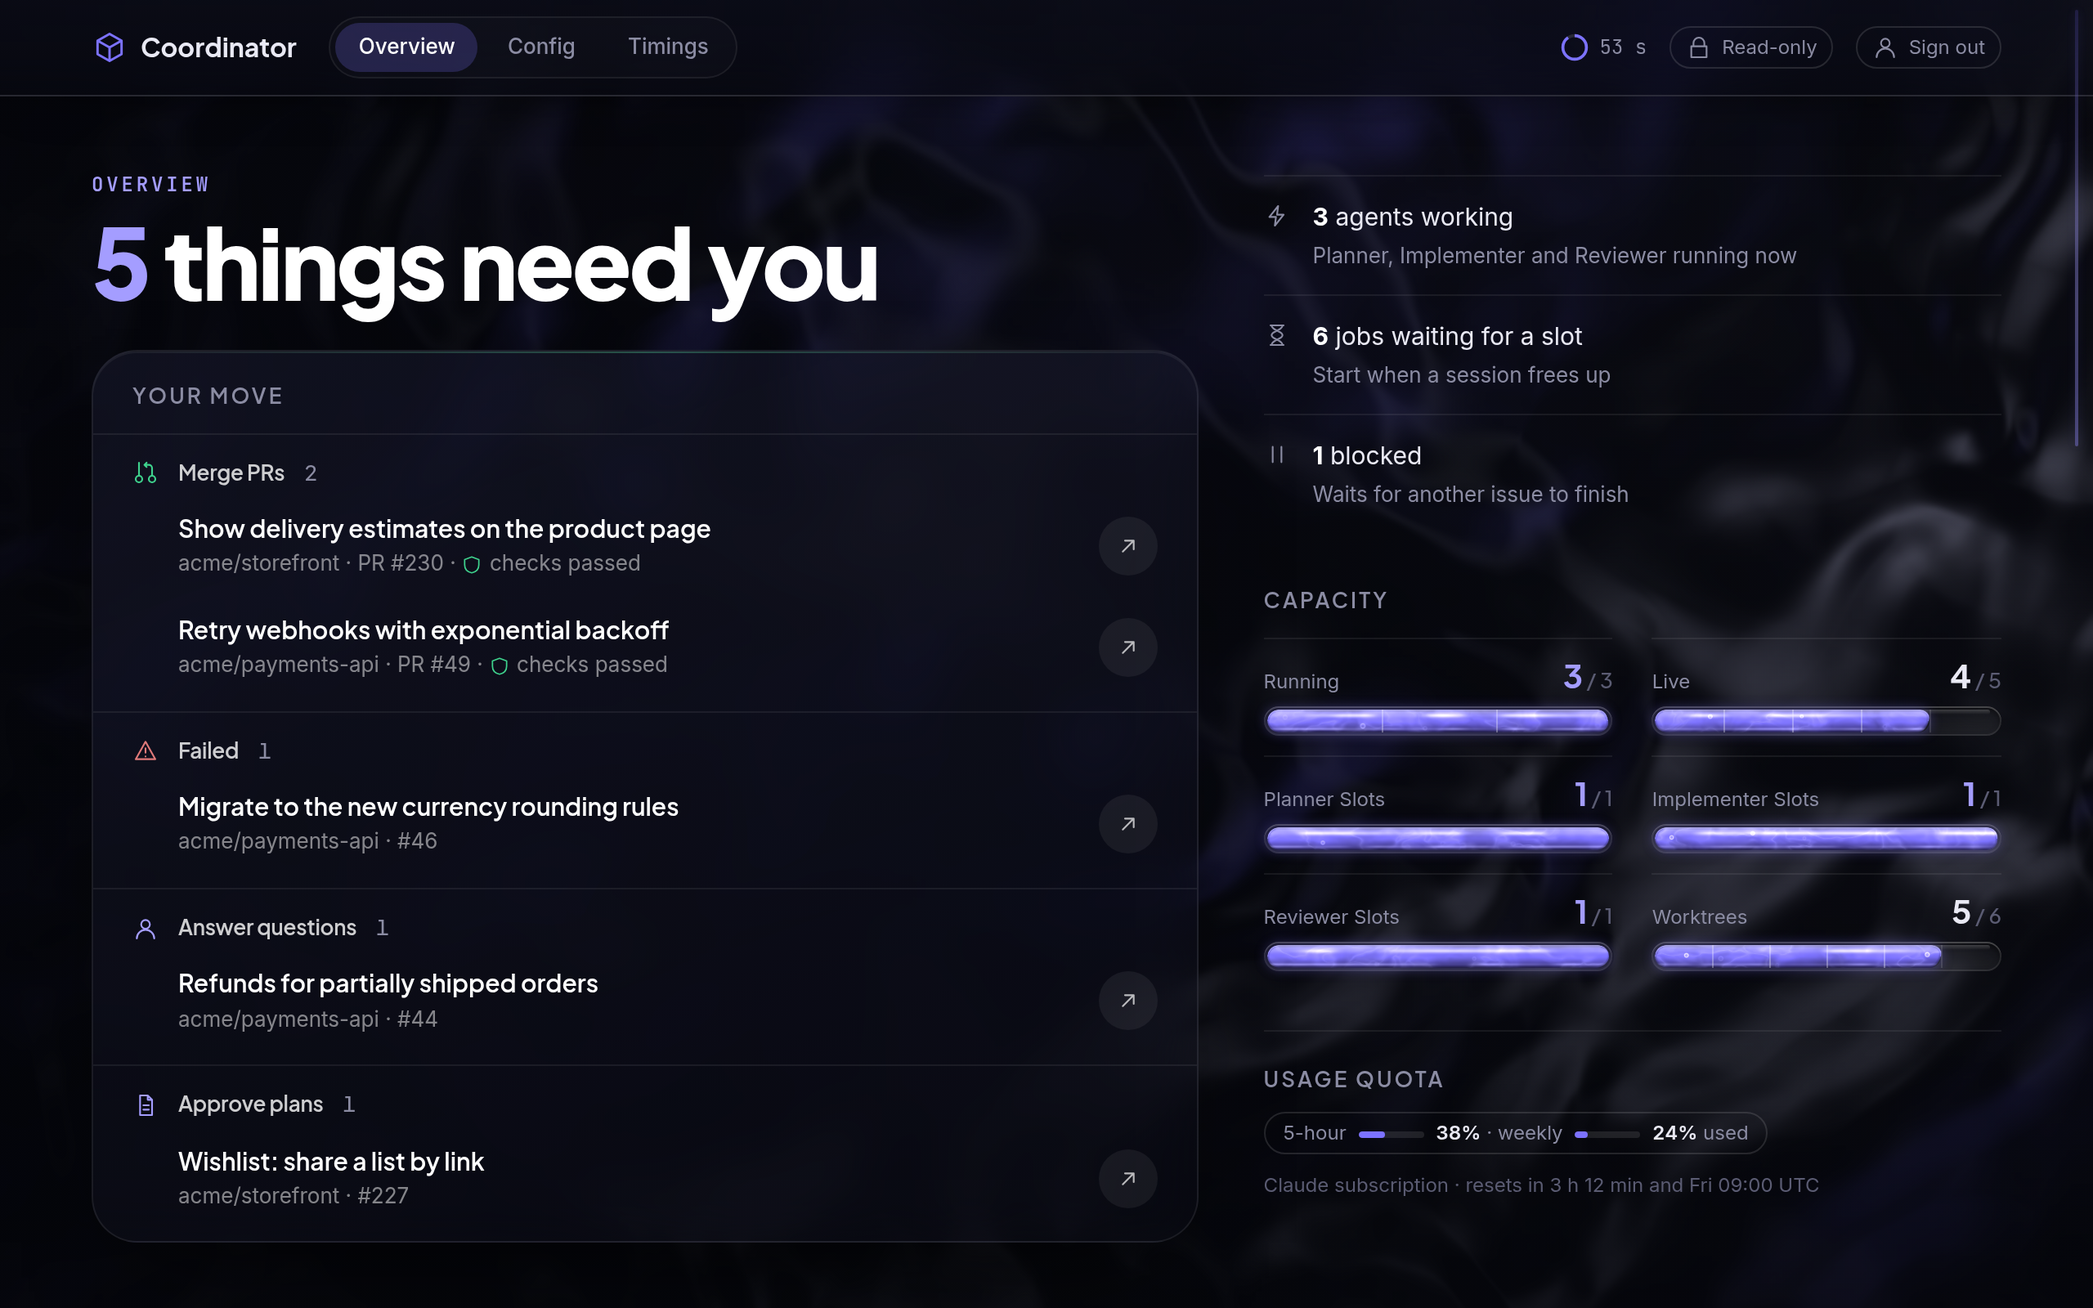
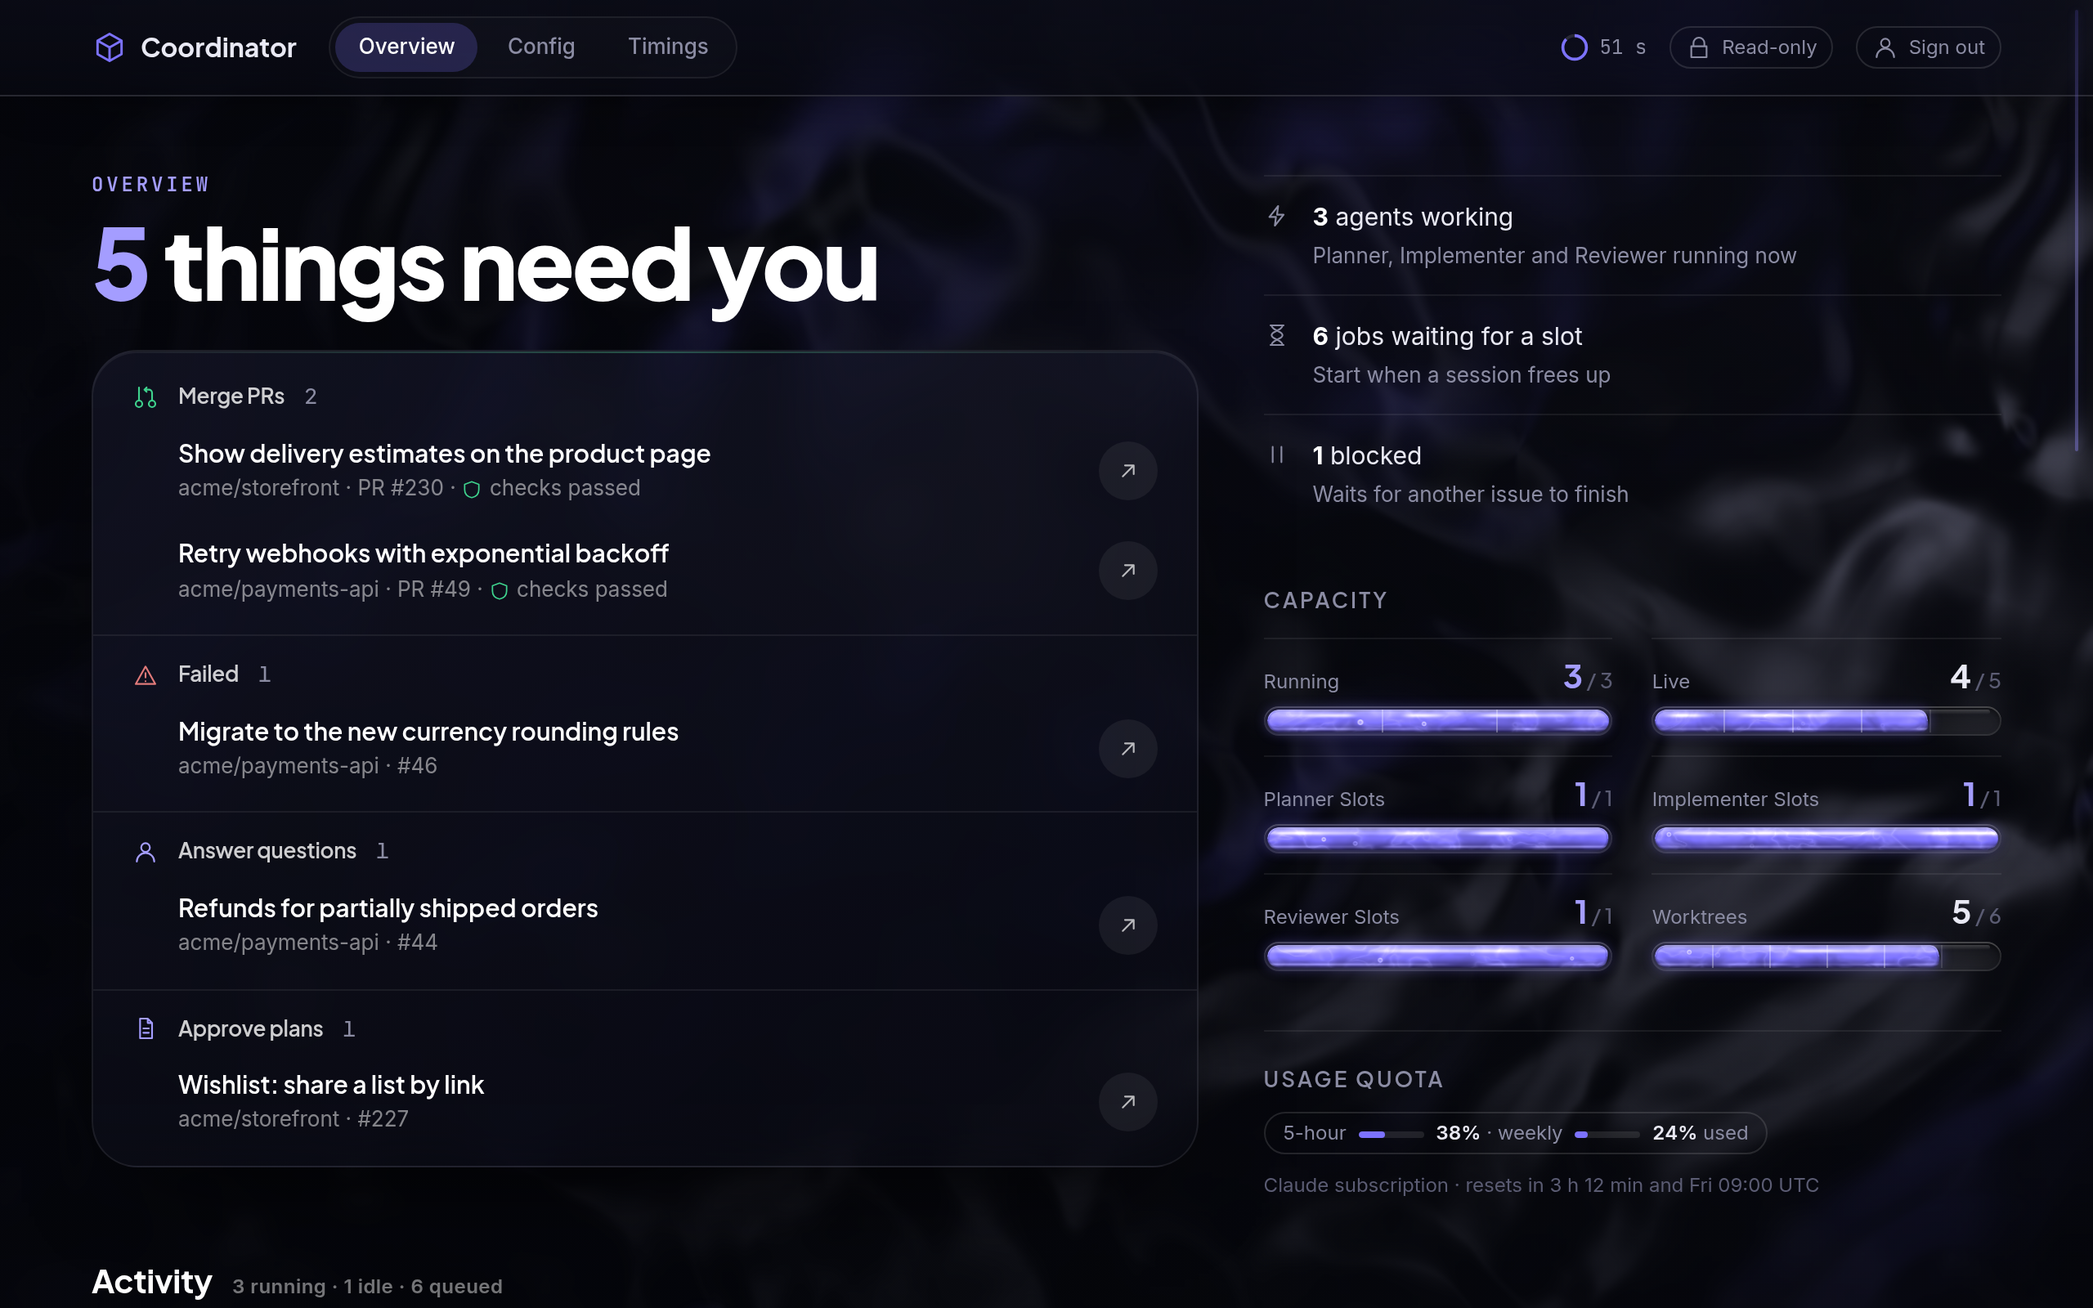
feat: Your move starts with its first group, no visible title (#154, REQ-003-32)
The headline above already introduces the panel. The "Your move" name stays
as a screen-reader-only h2; the first group drops its top hairline and keeps
the panel's 18px top padding. The empty-state text is now first in the panel.

Claude-Session: https://claude.ai/code/session_0137xE8D2TnkiuPdvJBsNGWq

diff --git a/test/dashboard-html.test.ts b/test/dashboard-html.test.ts
@@ -253,7 +253,10 @@ describe("dashboard html", () => {
 
   test("REQ-003-32 Your move lists the groups with an icon, a name and a count, each row linked with title, repository and number", () => {
     const summary = summaryOf(overview());
-    expect(summary).toMatch(/<div class="panel[^"]*"><h2 [^>]*>(?:(?!<\/h2>)[\s\S])*Your move<\/h2>/);
+    // #154: no visible title, the headline introduces the panel; screen readers still name it.
+    expect(summary).toMatch(
+      /<div class="panel[^"]*"><h2 class="sr-only">Your move<\/h2><ul><li [^>]*data-move="merge"/,
+    );
     const groups = [...summary.matchAll(/<li [^>]*data-move="(\w+)"/g)].map((m) => m[1]);
     expect(groups).toEqual(["merge", "approve"]);
     expect(summary).toMatch(/data-move="merge"[\s\S]*?<h3[^>]*>[\s\S]*?Merge PRs[\s\S]*?>1<[\s\S]*?<\/h3>/);
@@ -368,14 +371,15 @@ describe("dashboard html", () => {
     expect(summary).not.toMatch(/\b(?:text|bg|border|from)-warn\b/);
     // Bare icons: no circle or box around them; the groups are split by a plain hairline.
     expect(head("merge")).not.toMatch(/rounded|bg-/);
+    // A hairline splits the groups; the first one starts the panel, with no line against its top edge (#154).
     const groupClasses = [...summary.matchAll(/<li class="([^"]*)" data-move=/g)].map((m) => m[1]);
-    for (const c of groupClasses) expect(c).toBe("border-line border-t");
+    expect(groupClasses).toEqual(["pt-1", ...Array(4).fill("border-line border-t")]);
   });
 
   test("REQ-003-32 with nothing to do Your move says so and when items will appear", () => {
     const summary = summaryOf(renderDashboard(dashboardView({ ...snap, repos: [] }, config, NOW)));
-    expect(summary).toContain("Your move");
-    expect(summary).toContain("Nothing needs you.");
+    // #154: the empty text is the first thing seen in the panel, under the hidden name.
+    expect(summary).toMatch(/<div class="panel[^"]*"><h2 class="sr-only">Your move<\/h2><p [^>]*>Nothing needs you\. /);
     expect(summary).toMatch(/Nothing needs you\. [^<]*Review passes[^<]*Planner/);
     expect(summary).not.toContain("data-move=");
   });
@@ -468,7 +472,7 @@ describe("dashboard html", () => {
     const summary = html.slice(html.indexOf('id="summary"'), html.indexOf('id="activity"'));
     // Two columns from md on, the left one wider; in page order (a phone stacks them): headline, Your move, counts, Capacity.
     expect(summary).toMatch(/^id="summary" class="[^"]*md:grid-cols-\[minmax\(0,3fr\)_minmax\(0,2fr\)\]/);
-    const at = order(summary, ["<h1", "Your move", 'id="stats"', 'id="capacity"']);
+    const at = order(summary, ["<h1", 'class="panel', 'id="stats"', 'id="capacity"']);
     expect([...at].sort((a, b) => a - b)).toEqual(at);
     expect(at.every((i) => i >= 0)).toBe(true);
     expect(inside(html, "section#summary > div:first-child", ["h1", ".panel", "#stats"])).toEqual(

diff --git a/src/dashboard/html.tsx b/src/dashboard/html.tsx
@@ -152,15 +152,28 @@ function moveParts(groups: MoveGroup[], from: number, to: number): MovePart[] {
 
 /**
  * REQ-003-32: groups with a bare icon, name and total count, split by a plain hairline. A group
- * continued after "Show N more" has neither heading nor hairline (REQ-003-35).
+ * continued after "Show N more" has neither heading nor hairline (REQ-003-35). The `top` list starts
+ * the panel: its first group has no hairline, just the panel's top padding (#154).
  */
-const MoveGroups = ({ parts, fadeLast = false }: { parts: MovePart[]; fadeLast?: boolean }) => (
+const MoveGroups = ({
+  parts,
+  fadeLast = false,
+  top = false,
+}: {
+  parts: MovePart[];
+  fadeLast?: boolean;
+  top?: boolean;
+}) => (
   <ul>
     {parts.map(({ group: g, items, continued }, p) => {
       const { icon, tone } = MOVE_ICONS[g.kind];
       const last = p === parts.length - 1;
       return (
-        <li key={g.kind} className={continued ? undefined : "border-line border-t"} data-move={g.kind}>
+        <li
+          key={g.kind}
+          className={top && p === 0 ? "pt-1" : continued ? undefined : "border-line border-t"}
+          data-move={g.kind}
+        >
           {!continued && (
             <h3 className="flex items-center gap-3 px-[18px] pt-3.5 pb-1 font-semibold text-[13px] text-white/80 sm:px-6">
               <Icon name={icon} className={`size-4 ${TONE_TEXT[tone]}`} />
@@ -187,21 +200,22 @@ function YourMove({ v }: { v: DashboardView }) {
   const total = v.summary.needYou;
   return (
     <div className="panel">
-      <Label className="px-6 pt-[18px] pb-3">Your move</Label>
+      {/* #154: the headline above introduces the panel; the name stays for screen readers. */}
+      <h2 className="sr-only">Your move</h2>
       {total === 0 ? (
         <Empty className="px-6 pt-3 pb-5">
           Nothing needs you. A PR shows up here when its Review passes and the checks are green, an issue when the
           Planner has a plan or questions for you, or when it failed.
         </Empty>
       ) : total <= MOVES_UNCAPPED ? (
-        <MoveGroups parts={moveParts(v.yourMove, 0, total)} />
+        <MoveGroups parts={moveParts(v.yourMove, 0, total)} top />
       ) : (
         <Expander
           id="moves"
           className="moves"
           more={total - MOVES_SHOWN}
           linkClassName="px-[18px] sm:px-6"
-          first={<MoveGroups parts={moveParts(v.yourMove, 0, MOVES_SHOWN)} fadeLast />}
+          first={<MoveGroups parts={moveParts(v.yourMove, 0, MOVES_SHOWN)} fadeLast top />}
           rest={<MoveGroups parts={moveParts(v.yourMove, MOVES_SHOWN, total)} />}
         />
       )}

diff --git a/docs/specs/003-dashboard/spec.md b/docs/specs/003-dashboard/spec.md
@@ -305,6 +305,7 @@ The Owner wants to see at a glance, also on a phone, what the Coordinator is doi
 - **Given** ready PRs (open agent PRs whose issues are all `agent:reviewed`, whose checks passed or that have none, and that GitHub reports as mergeable) and issues in `failed`, `needs-refinement`, `proposed` or `wontfix-proposed`
 - **When** the Overview is shown
 - **Then** a "Your move" panel next to the headline (REQ-003-11) lists them in groups, in this order: Merge PRs, Failed, Answer questions, Approve plans, Close?; a group with nothing in it is left out
+- **And** the panel shows no visible title: the first group's heading (or the empty-state text) is the first thing in it, since the headline above already introduces it, and the first group has no hairline above it; a screen reader still announces the panel as "Your move" (#154)
 - **And** each group has a bare icon (no circle or box around it), its name and its count, and the groups are split by a plain hairline
 - **And** each row shows the title, the repository and the number (`PR #N` for a PR), and links to the PR or issue on GitHub; it gives no hint on what to do, since the group name says it (#139)
 - **And** from the `sm` width on, the title and the line under it take one line each, cut with an ellipsis, with the full title on hover; on a phone rows are not indented and the title may take 2 lines
@@ -433,7 +434,7 @@ The Owner wants to see at a glance, also on a phone, what the Coordinator is doi
 | REQ-003-30 | `dashboard GitHub sign-in > REQ-003-29 / REQ-003-30 the Owner signs in …` and `REQ-003-30 …` (7 tests: another user 403, wrong or missing state 400, refused code 400 and GitHub out of reach 502, tampered/expired/foreign session, the key generated once (0600), a restart keeps the session unless `owner.id` changed, Secure behind HTTPS)                                                                                                                                                                                                                                                                                                                                                                                                                                                                                                                                                                                                                                                                                                                                                                                                                                           | pass; with a real OAuth App: open                                                                                  |
 | REQ-003-31 | `dashboard GitHub sign-in > REQ-003-31 …` (2 tests: Sign out ends the session and refuses a cross-site POST, the token next to the sign-in as Bearer, `?token=` and its cookie, also before the sign-in is set up); `dashboard html > REQ-003-31 …` (the Sign out form in the header); `config > REQ-003-31 …` (off loopback a token or the sign-in)                                                                                                                                                                                                                                                                                                                                                                                                                                                                                                                                                                                                                                                                                                                                                                                                                                      | pass                                                                                                               |
 | REQ-003-36 | `Settings overrides > REQ-003-36 …` (8 tests: no file, merge of every editable key, a repository's `null`, `autoMerge` globally and per repository with a repository's `null` falling back to the global mode, unknown repositories ignored, invalid file and non-editable keys refused (incl. `setup`, a model that is an option), save validates, writes and survives a restart, empty overrides); `dashboard settings > REQ-003-36 …` (5 tests: the form with its token and only the editable fields and no refresh, saving writes only differences and marks them with config.ts's value and Reset, `autoMerge` as a select globally and per repository that saves, goes back to the global mode and refuses an unknown mode, an invalid value keeps the entered values and saves nothing, Reset removes one override); `reconcile loop with Settings overrides > REQ-003-36 …` (a lowered `maxRunning` and another model apply at the next tick); `worktrees > REQ-003-36 maxWorktrees is read on every check …`; manual: `bun run doctor` with a valid and an invalid overrides file, and save / invalid save in headless Chrome against the real server (screenshots on #123's PR) |
-| REQ-003-32 | `dashboard view > REQ-003-32 …` (4 tests: the ready-PR filter, a Bundle only when all its issues are reviewed, groups in order with rows, labels and hints, empty groups left out); `dashboard html > REQ-003-32 …` (6 tests: groups with icon, name and count and linked rows; one line each from sm on with the full title as `title`, no hint, only the repository cut (#139); a ready PR's checks fact at every width with a green shield; every row has the green accent line, wash, nudge and arrow hover; tones and hairlines; the empty state); `dashboard server > REQ-003-13 ?repo= narrows the Pipeline` (Your move stays unfiltered); in Chrome: desktop and phone screenshots with the first row hovered (forced `:hover`), no horizontal scroll at 360px (#111)                                                                                                                                                                                                                                                                                                                                                                                                             | pass; the hover in a real browser: open                                                                            |
+| REQ-003-32 | `dashboard view > REQ-003-32 …` (4 tests: the ready-PR filter, a Bundle only when all its issues are reviewed, groups in order with rows, labels and hints, empty groups left out); `dashboard html > REQ-003-32 …` (6 tests: groups with icon, name and count and linked rows, no visible title but a screen-reader name, the first group first in the panel (#154); one line each from sm on with the full title as `title`, no hint, only the repository cut (#139); a ready PR's checks fact at every width with a green shield; every row has the green accent line, wash, nudge and arrow hover; tones and hairlines, none above the first group; the empty state first in the panel); `dashboard server > REQ-003-13 ?repo= narrows the Pipeline` (Your move stays unfiltered); in Chrome: desktop and phone screenshots with the first row hovered (forced `:hover`), no horizontal scroll at 360px (#111); without the title, with items and with none: screenshots on the PR (#154)                                                                                                                                                                                             | pass; the hover in a real browser: open                                                                            |
 | REQ-003-33 | `store > Timings > REQ-003-33 …` (5 tests: a step's wait and only running time as agent time, a session's time goes to the step that began last across phases, survives a restart and a crash's interval closed at the next Tick, a retried start is the same round and the next starts at the last end, the Owner's time fills the gap since the last step, checks run alongside from their head's push once per head, never without Timings); `reconcile loop > REQ-003-33 one issue through plan, revision, approval, Implementer, checks, Review, Feedback round, re-review and merge`, `… a session whose window is gone …`; `hook > REQ-003-33 …`; `deriveActions > REQ-001-14 / REQ-003-33 …` (merged or closed)                                                                                                                                                                                                                                                                                                                                                                                                                                                                   | pass                                                                                                               |
 | REQ-003-34 | `dashboard timings > REQ-003-34 …` (9 tests: rows, labels, shares on one scale, totals without the Owner's time; with it end to end; one segment per step, running grows, under a second left out; checks alongside the Review count once; picker newest first, empty states; tab, GET form, `width` attributes and no `style`, empty page); `store > Timings > REQ-003-34 lists the issues …`; `dashboard server > REQ-003-34 …` (2 tests: from the store behind the token, no source); `dashboard refresh > REQ-003-34 …` (submits on change); no horizontal scroll at 360 and 390 px measured in Chrome, screenshots on the PR                                                                                                                                                                                                                                                                                                                                                                                                                                                                                                                                                         | pass                                                                                                               |
 | REQ-003-35 | `dashboard html > REQ-003-35 …` (4 tests: 11 items show 5 and one "Show 6 more", counts stay totals, the 5th fades; a split group keeps one heading and a later group brings its own; 6 or fewer show all with no expander; the fade rule in the stylesheet; each seen failing first); `dashboard refresh > REQ-003-28 / REQ-003-35 an opened "Show N more" in Your move stays open`; desktop and phone screenshots with 11 items on the PR (#139)                                                                                                                                                                                                                                                                                                                                                                                                                                                                                                                                                                                                                                                                                                                                        | pass                                                                                                               |
